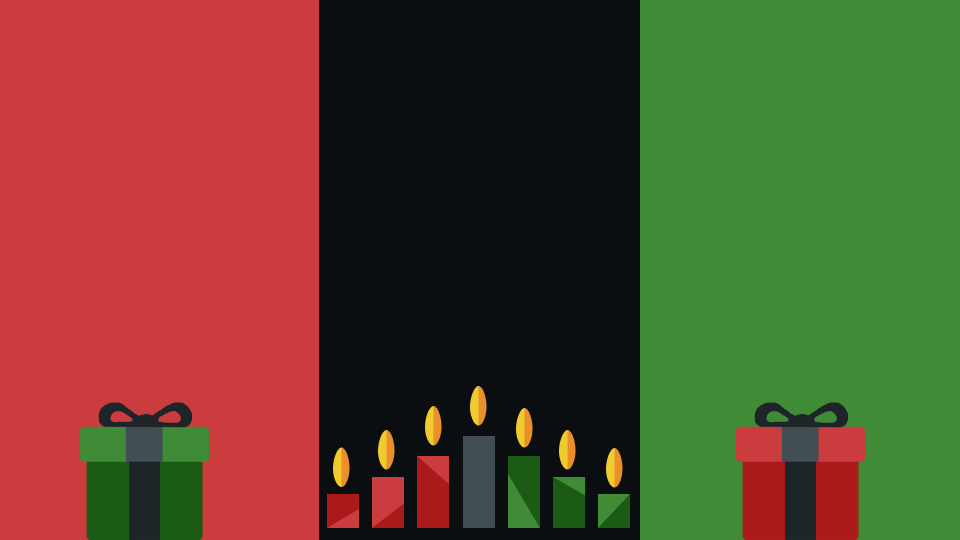
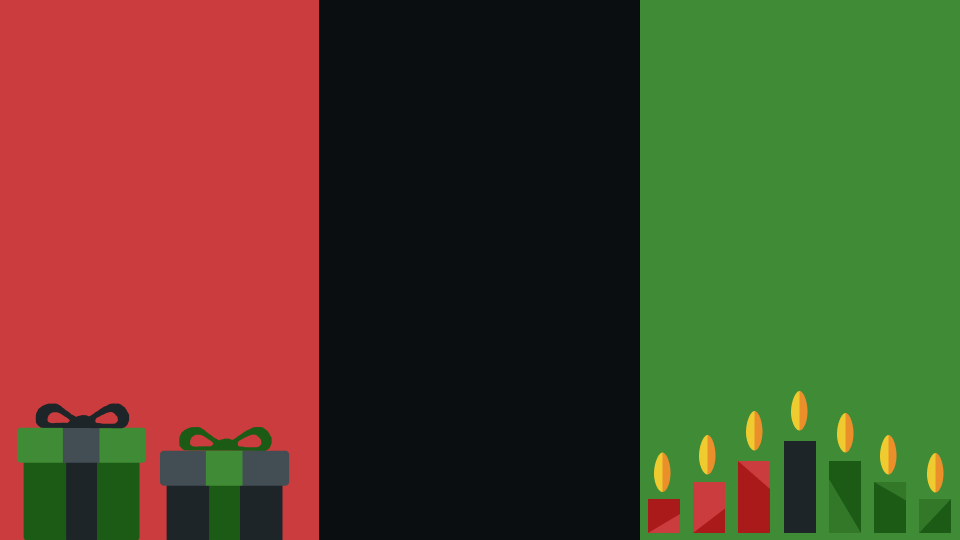
Update images

Changed region(s): [[0.3438, 0.7111, 1.0, 1.0], [0.0, 0.7407, 0.3125, 1.0]]

diff --git a/src/__configuration__/themes/kwanzaa.ts b/src/__configuration__/themes/kwanzaa.ts
@@ -2,8 +2,8 @@ import * as PXBThemes from '@pxblue/react-themes';
 import * as Colors from '@pxblue/colors';
 import * as BrandingColors from '@pxblue/colors-branding';
 // import Kwanzaa from '../../app/assets/themes/kwanzaa/kwanzaa-banner.png';
-import Kwanzaa from '../../app/assets/themes/kwanzaa/kwanzaa-banner-2.png';
-import flagCursor from '../../app/assets/themes/kwanzaa/flag-cursor.svg';
+import Kwanzaa from '../../app/assets/themes/kwanzaa/kwanzaa-banner.png';
+import flagCursor from '../../app/assets/themes/kwanzaa/flag-cursor.png';
 import AppBarTile from '../../app/assets/themes/kwanzaa/kwanzaa-appbar-tile.png';
 import { Schedule } from './types';
 
